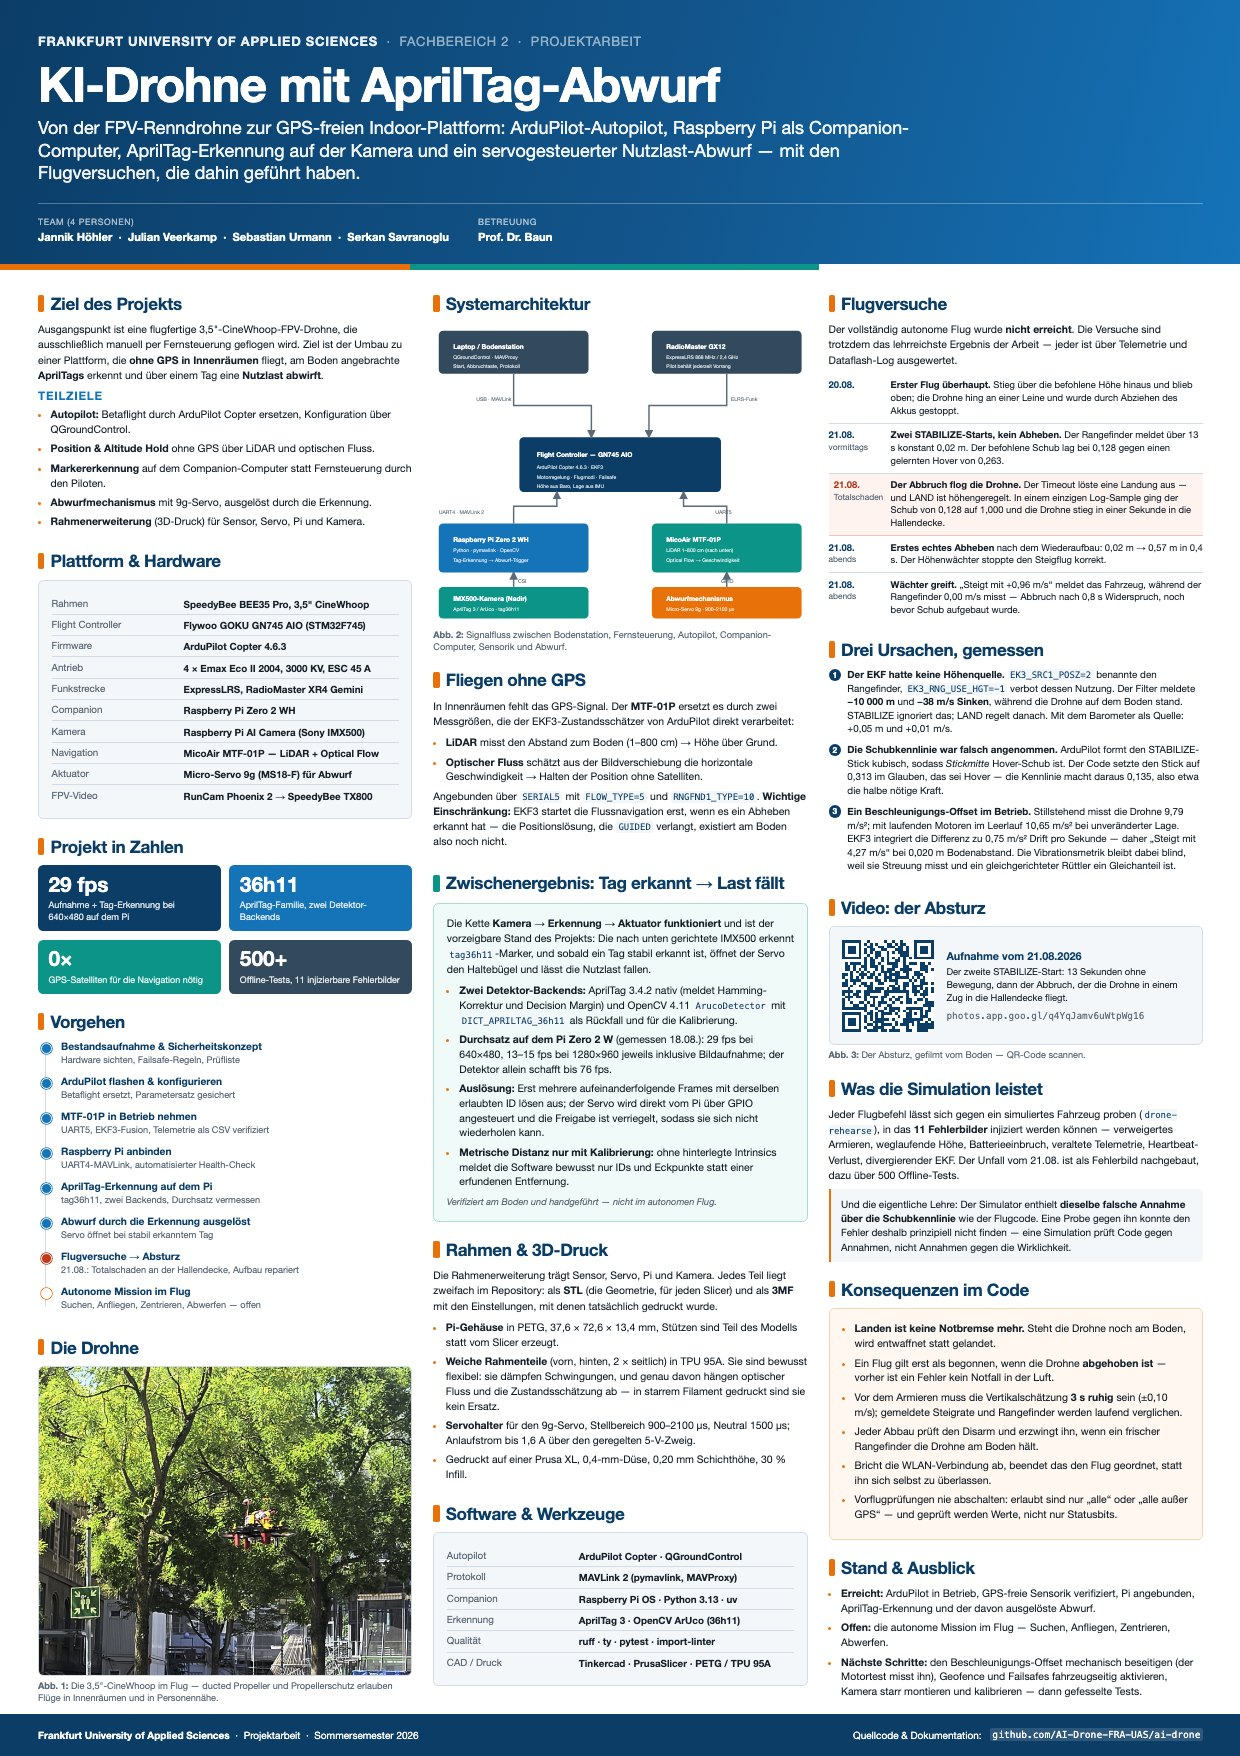
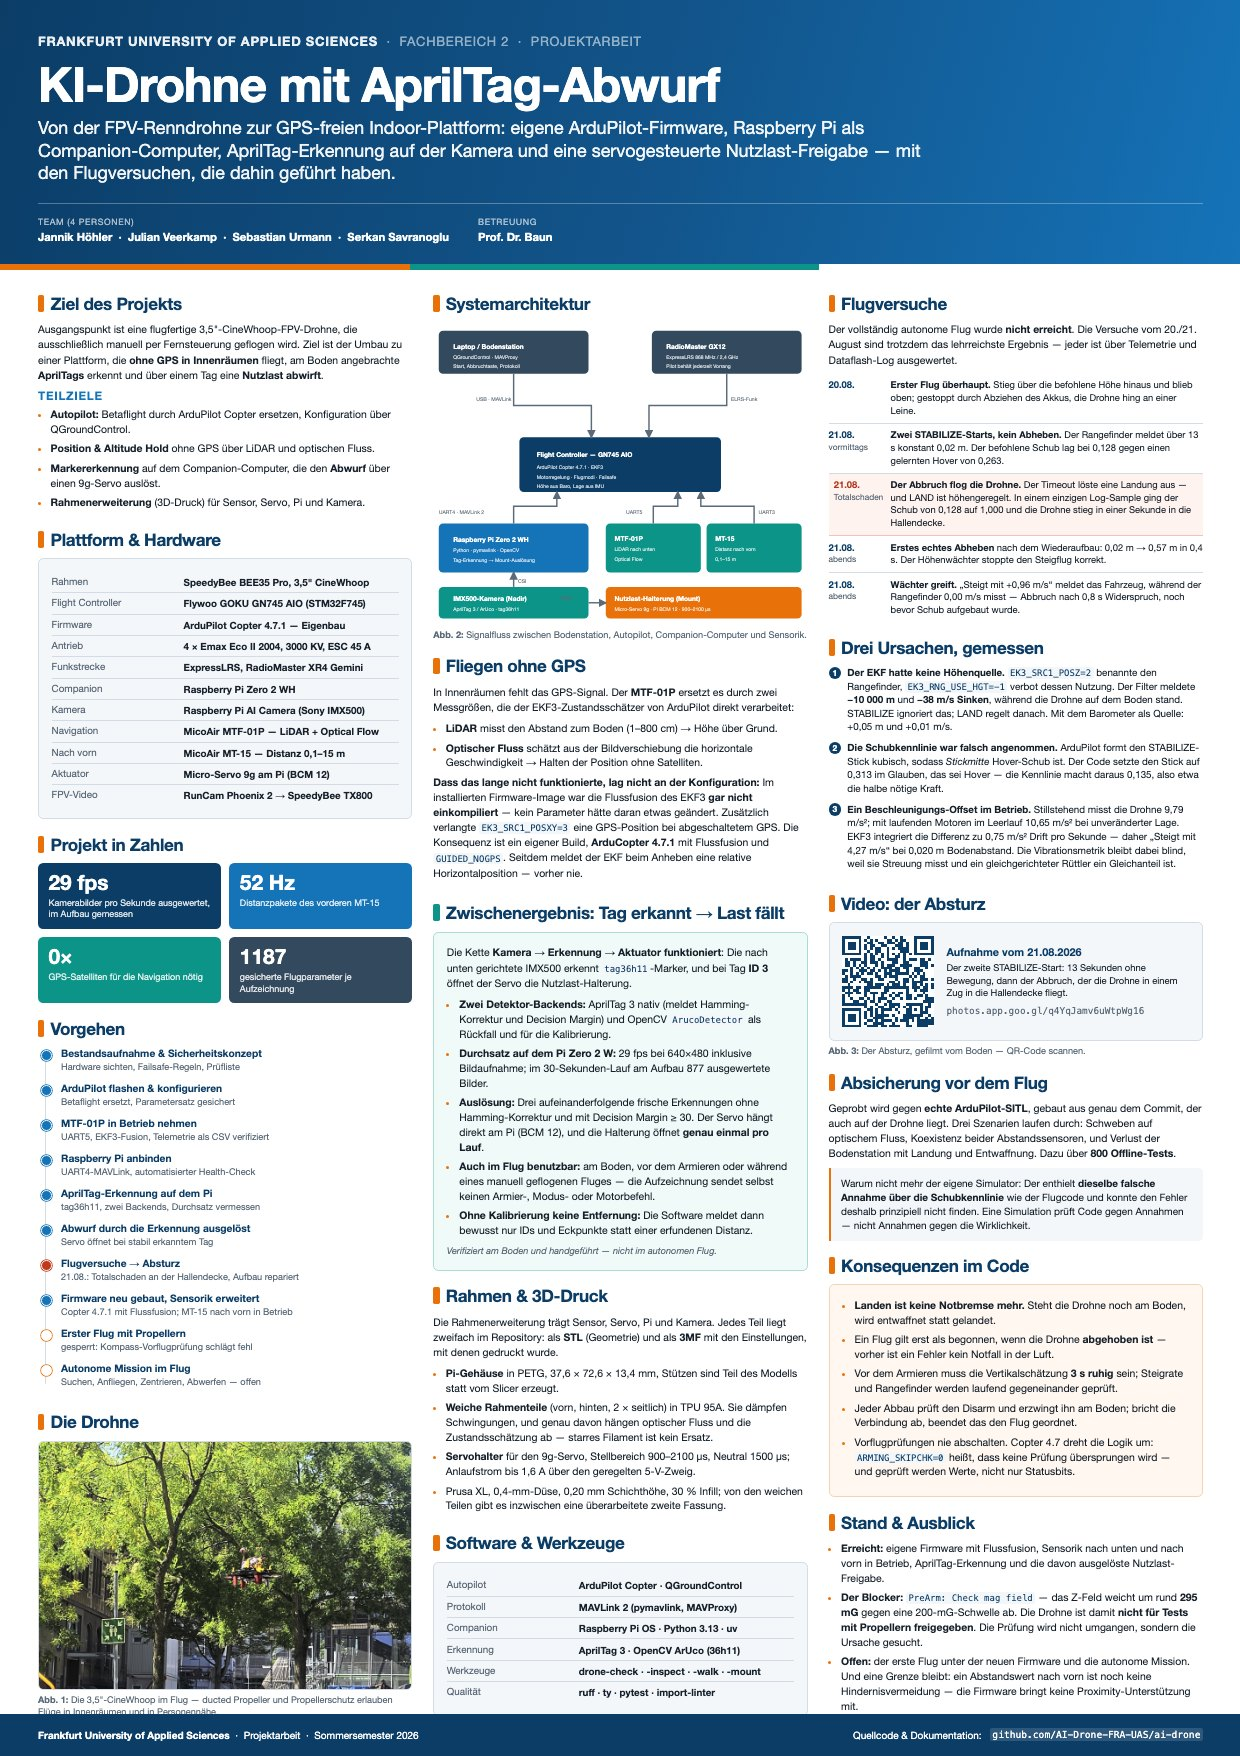
Carry the same September state into the project site
The landing page advertised an August throughput figure and a status list
that stopped at the crash. It now leads with the firmware build and the
forward sensor, and the architecture diagram shows both rangefinders on their
own UARTs instead of one downward unit.

The status list gains the two entries that decide what happens next: the
forward MT-15 as working, and the first propeller-on flight as blocked by the
compass pre-arm check rather than silently missing.

The AprilTag page documents the maintained release path -- the capture script
that opens the mount once per run on tag ID 3 -- and its statement that a
downward-looking aircraft sees no obstacles is corrected: it now has a forward
distance, which is still not obstacle avoidance.

diff --git a/site/content/index.html b/site/content/index.html
@@ -35,8 +35,8 @@
       abwerfen.
     </p>
     <div class="kennzahlen">
-      <div class="kennzahl"><b>29 fps</b><span>Historischer Durchsatz bei 640 × 480, August 2026</span></div>
-      <div class="kennzahl"><b>36h11</b><span>AprilTag-Familie, zwei Detektor-Backends</span></div>
+      <div class="kennzahl"><b>4.7.1</b><span>eigener ArduCopter-Build mit EKF3-Flussfusion</span></div>
+      <div class="kennzahl"><b>52 Hz</b><span>Distanzpakete des vorderen MT-15, gemessen 09.09.</span></div>
       <div class="kennzahl"><b>0×</b><span>GPS als Navigationsquelle deaktiviert</span></div>
       <div class="kennzahl"><b>SITL</b><span>ArduPilot-Simulation und Offline-Tests</span></div>
     </div>
@@ -55,7 +55,7 @@
 
     <div class="diagramm">
       <svg viewBox="0 0 920 560" xmlns="http://www.w3.org/2000/svg" role="img"
-           aria-label="Signalfluss zwischen Bodenstation, Fernsteuerung, Flight Controller, Raspberry Pi, Sensorik und Abwurfmechanismus">
+           aria-label="Signalfluss zwischen Bodenstation, Fernsteuerung, Flight Controller, Raspberry Pi, Sensorik nach unten und vorn sowie Abwurfmechanismus">
         <defs>
           <marker id="pfeil" viewBox="0 0 10 10" refX="9" refY="5"
                   markerWidth="6" markerHeight="6" orient="auto-start-reverse">
@@ -68,7 +68,8 @@
           <!-- Kein belegter RC-Empfänger im aktuellen Aufbau. -->
           <path d="M380 276 V310 H155 V338" />
           <path d="M280 382 H341" />
-          <path d="M540 276 V310 H765 V338" />
+          <path d="M540 276 V310 H685 V338" />
+          <path d="M575 276 V324 H827 V338" />
           <path d="M155 440 V464" />
         </g>
 
@@ -78,7 +79,8 @@
           <text x="592" y="135">kein aktiver RC-Link</text>
           <text x="196" y="304">UART4 · MAVLink 2</text>
           <text x="292" y="374">GPIO</text>
-          <text x="600" y="304">UART5</text>
+          <text x="596" y="304">UART5</text>
+          <text x="800" y="318">UART3</text>
           <text x="165" y="457">CSI</text>
         </g>
 
@@ -107,7 +109,7 @@
         <text x="344" y="202" font-family="Inter, sans-serif" font-size="15"
               font-weight="700" fill="#ffffff">Flight Controller — GN745 AIO</text>
         <text x="344" y="224" font-family="Inter, sans-serif" font-size="12"
-              fill="rgba(255,255,255,.82)">ArduPilot Copter 4.7 · EKF3</text>
+              fill="rgba(255,255,255,.82)">ArduPilot Copter 4.7.1 · EKF3</text>
         <text x="344" y="243" font-family="Inter, sans-serif" font-size="12"
               fill="rgba(255,255,255,.82)">Motorregelung · Flugmodi · Failsafe</text>
         <text x="344" y="262" font-family="Inter, sans-serif" font-size="12"
@@ -129,14 +131,23 @@
         <text x="367" y="396" font-family="Inter, sans-serif" font-size="12"
               fill="rgba(255,255,255,.9)">Micro-Servo · BCM12 · Endpunkte prüfen</text>
 
-        <!-- MTF-01P -->
-        <rect x="640" y="344" width="250" height="96" rx="10" fill="var(--tuerkis)" />
-        <text x="662" y="374" font-family="Inter, sans-serif" font-size="14.5"
-              font-weight="700" fill="#ffffff">MicoAir MTF-01P</text>
-        <text x="662" y="396" font-family="Inter, sans-serif" font-size="12"
-              fill="rgba(255,255,255,.9)">LiDAR nach unten · Bodenabstand</text>
-        <text x="662" y="415" font-family="Inter, sans-serif" font-size="12"
-              fill="rgba(255,255,255,.9)">Optical Flow → Geschwindigkeit</text>
+        <!-- MTF-01P, nach unten -->
+        <rect x="620" y="344" width="130" height="96" rx="10" fill="var(--tuerkis)" />
+        <text x="640" y="374" font-family="Inter, sans-serif" font-size="14.5"
+              font-weight="700" fill="#ffffff">MTF-01P</text>
+        <text x="640" y="396" font-family="Inter, sans-serif" font-size="12"
+              fill="rgba(255,255,255,.9)">LiDAR nach unten</text>
+        <text x="640" y="415" font-family="Inter, sans-serif" font-size="12"
+              fill="rgba(255,255,255,.9)">Optical Flow</text>
+
+        <!-- MT-15, nach vorn -->
+        <rect x="765" y="344" width="125" height="96" rx="10" fill="var(--tuerkis)" />
+        <text x="785" y="374" font-family="Inter, sans-serif" font-size="14.5"
+              font-weight="700" fill="#ffffff">MT-15</text>
+        <text x="785" y="396" font-family="Inter, sans-serif" font-size="12"
+              fill="rgba(255,255,255,.9)">Distanz nach vorn</text>
+        <text x="785" y="415" font-family="Inter, sans-serif" font-size="12"
+              fill="rgba(255,255,255,.9)">0,1–15 m</text>
 
         <!-- Kamera -->
         <rect x="30" y="470" width="250" height="70" rx="10" fill="#33495e" />
@@ -209,13 +220,22 @@
     <div class="status">
       <div class="status-zeile">
         <span class="status-punkt">✓</span>
-        <span><b>ArduPilot statt Betaflight</b>
-          Die aktuelle Firmware und der gesicherte Parametersatz stehen in der Konfigurationsdokumentation.</span>
+        <span><b>Eigene ArduPilot-Firmware</b>
+          Copter 4.7.1 aus dem offiziellen Stand, gebaut mit EKF3-Flussfusion und
+          <code>GUIDED_NOGPS</code>. Im Serienimage war die Flussfusion nicht einkompiliert
+          — der eigentliche Grund, warum Loiter ohne GPS lange nicht ging.</span>
       </div>
       <div class="status-zeile">
         <span class="status-punkt">✓</span>
         <span><b>MTF-01P an UART5</b>
           Distanz- und Flussdaten wurden erfasst; die aktuelle Integration ist im jüngsten Hardwarebericht dokumentiert.</span>
+      </div>
+      <div class="status-zeile">
+        <span class="status-punkt">✓</span>
+        <span><b>Vorderer MT-15 in Betrieb</b>
+          Seit 09.09. an UART3 (physisches T3 als RX über <code>SERIAL3_OPTIONS=8</code>),
+          rund 52 Distanzpakete pro Sekunde. Ein Abstandswert ist allerdings noch keine
+          Hindernisvermeidung — die Firmware bringt keine Proximity-Unterstützung mit.</span>
       </div>
       <div class="status-zeile">
         <span class="status-punkt">✓</span>
@@ -251,6 +271,13 @@
         <span><b>Rahmenerweiterung</b>
           Druckdateien liegen unter hardware/3d-prints; Montage und Sensor-Sichtfelder
           sind am aktuellen Aufbau zu kontrollieren.</span>
+      </div>
+      <div class="status-zeile offen">
+        <span class="status-punkt">○</span>
+        <span><b>Erster Flug unter der neuen Firmware</b>
+          Gesperrt: Die Vorflugprüfung meldet <code>PreArm: Check mag field</code>, das
+          Z-Feld weicht um rund 295 mG gegen eine 200-mG-Schwelle ab. Die Drohne ist nicht
+          für Tests mit Propellern freigegeben; die Prüfung wird nicht umgangen.</span>
       </div>
       <div class="status-zeile offen">
         <span class="status-punkt">○</span>

diff --git a/site/content/apriltag.html b/site/content/apriltag.html
@@ -98,6 +98,30 @@
     <p>Eine metrische Tag-Pose benötigt gemessene Taggröße und eine passende
       Kamerakalibrierung. Eine gewählte Beispielgröße ersetzt keine Messung.</p>
 
+    <h2 id="mount"><a class="anker" href="#mount" aria-hidden="true">#</a>Der gepflegte Weg: Aufzeichnung mit einmaliger Freigabe</h2>
+
+    <p>
+      Seit Mitte September gibt es dafür ein eigenes Skript auf dem Pi. Es zeichnet den
+      vollständigen Sensor- und Kameradatensatz auf und öffnet dabei die
+      Nutzlast-Halterung, wenn Tag <b>ID 3</b> erkannt wird:
+    </p>
+
+    <pre><code>uv run --locked --group raspi python scripts/tag_mount_capture.py</code></pre>
+
+    <ul>
+      <li>Ausgelöst wird nach <b>drei aufeinanderfolgenden frischen Erkennungen</b> ohne
+        Hamming-Korrektur und mit Decision Margin von mindestens 30.</li>
+      <li>Die Halterung öffnet <b>einmal pro Lauf</b> — dieselbe Stellung wie
+        <code>drone-mount open</code>, danach wird das PWM-Signal abgekoppelt. Es gibt kein
+        automatisches Schließen; die Ausgangsstellung setzt vorher
+        <code>drone-mount close</code>.</li>
+      <li>Der Lauf funktioniert <b>disarmiert, vor dem Armieren und während eines manuell
+        geflogenen Fluges</b>. Er sendet selbst keinen Armier-, Modus-, Motor-, RC- oder
+        Missionsbefehl und rührt keinen Servo-Ausgang des Flight Controllers an.</li>
+      <li>Der Servo hat keine Positionsrückmeldung: Protokolliert wird das <i>gesendete</i>
+        Kommando, nicht die tatsächliche Stellung der Mechanik.</li>
+    </ul>
+
     <h2 id="grenzen"><a class="anker" href="#grenzen" aria-hidden="true">#</a>Grenzen, die bewusst so bleiben</h2>
 
     <ul>
@@ -108,9 +132,11 @@
       <li><b>Die Kamera muss starr sitzen</b> und nach unten schauen (Nadir), mit
         entlastetem Flachbandkabel und fixiertem Fokus. Solange sie das nicht tut, ist
         jede Posenangabe wertlos.</li>
-      <li><b>Ein nach unten gerichteter Aufbau sieht keine Hindernisse.</b> Der LiDAR
-        misst Höhe, der optische Fluss Geschwindigkeit, die Kamera den Boden — nichts
-        davon sieht eine Wand voraus.</li>
+      <li><b>Ein Abstandswert nach vorn ist keine Hindernisvermeidung.</b> Seit dem
+        9. September misst ein vorderer MT-15 zuverlässig mit rund 52 Hz, aber die
+        Firmware bringt keine Proximity-Unterstützung mit: Der Wert wird gemessen und
+        angezeigt, nicht geflogen. LiDAR misst Höhe, optischer Fluss Geschwindigkeit,
+        die Kamera den Boden.</li>
     </ul>
 
     <div class="seiten-fuss">

diff --git a/site/content/plakat.html b/site/content/plakat.html
@@ -86,6 +86,7 @@
           <tr><td>Plattform &amp; Hardware, Fliegen ohne GPS</td><td><a href="konfiguration.html">Drohnenkonfiguration</a></td></tr>
           <tr><td>Zwischenergebnis: Tag erkannt → Last fällt</td><td><a href="apriltag.html">AprilTag-Erkennung und Abwurf</a></td></tr>
           <tr><td>Flugversuche, Ursachen, Konsequenzen</td><td><a href="flugversuche.html">Flugversuche und Absturz</a></td></tr>
+          <tr><td>Firmware, Sensorik nach vorn, Blocker</td><td>die datierten Aufzeichnungen unter <code>state/2026-09-09/</code></td></tr>
           <tr><td>Rahmen &amp; 3D-Druck</td><td><a href="rahmen.html">Rahmen und 3D-Druck</a></td></tr>
           <tr><td>Systemarchitektur, Software &amp; Werkzeuge</td><td><a href="architektur.html">Softwarearchitektur</a></td></tr>
         </tbody>
